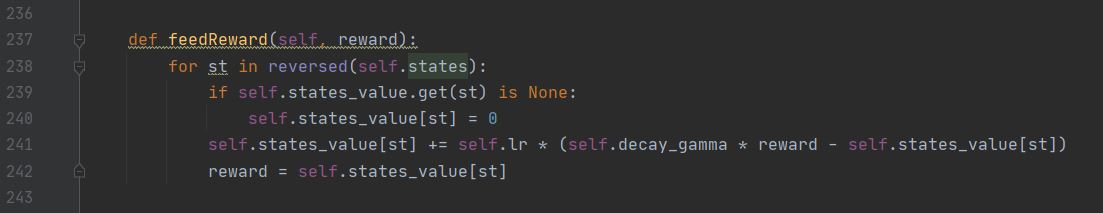
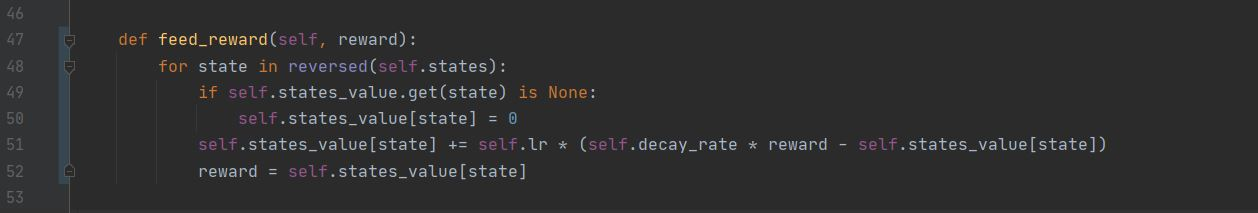
refractoring

diff --git a/game.py b/game.py
@@ -15,7 +15,7 @@ class Machine:
         self.isReset = False
 
     # get unique hash of current board state
-    def getHash(self):
+    def get_hash(self):
         self.boardHash = str(self.board.reshape(BOARD_COLS * BOARD_ROWS))
         return self.boardHash
 
@@ -52,14 +52,14 @@ class Machine:
                 return -1, 3, 0
 
         # tie - no available positions
-        if len(self.availablePositions()) == 0:
+        if len(self.available_positions()) == 0:
             self.isEnd = True
             return [0, 0, 0]
         # not end
         self.isEnd = False
         return [None, None, None]
 
-    def availablePositions(self):
+    def available_positions(self):
         positions = []
         for i in range(BOARD_ROWS):
             for j in range(BOARD_COLS):
@@ -67,48 +67,47 @@ class Machine:
                     positions.append((i, j))
         return positions
 
-    def updateState(self, position, symbol):
+    def update_state(self, position, symbol):
         self.board[position] = symbol
         self.show_move(position, symbol)
 
-    def giveReward(self):
+    def give_reward(self):
         result = self.winner()[0]
         # backpropagate reward
         if result == 1:
-            self.p1.feedReward(1)
-            self.p2.feedReward(0)
+            self.p1.feed_reward(1)
+            self.p2.feed_reward(0)
         elif result == -1:
-            self.p1.feedReward(0)
-            self.p2.feedReward(1)
+            self.p1.feed_reward(0)
+            self.p2.feed_reward(1)
         else:
-            self.p1.feedReward(0.5)
-            self.p2.feedReward(0.5)
+            self.p1.feed_reward(0.5)
+            self.p2.feed_reward(0.5)
 
     def reset(self):
         self.board = np.zeros((BOARD_ROWS, BOARD_COLS))
         self.boardHash = None
         self.isEnd = False
 
-
     def play(self, rounds=100):
         for i in range(rounds):
             while not self.isEnd:
                 # Player 1
-                positions = self.availablePositions()
-                p1_action = self.p1.chooseAction(positions, self.board, self.p1.symbol)
+                positions = self.available_positions()
+                p1_action = self.p1.make_move(positions, self.board)
 
                 # take action and update board state
                 self.board[p1_action] = self.p1.symbol
 
-                board_hash = self.getHash()
-                self.p1.addState(board_hash)
+                board_hash = self.get_hash()
+                self.p1.add_state(board_hash)
                 # check board status if it is end
 
                 win = self.winner()[0]
                 if win is not None:
                     # self.showBoard()
                     # ended with p1 either win or draw
-                    self.giveReward()
+                    self.give_reward()
                     self.p1.reset()
                     self.p2.reset()
                     self.update_score(win)
@@ -117,19 +116,19 @@ class Machine:
 
                 else:
                     # Player 2
-                    positions = self.availablePositions()
-                    p2_action = self.p2.chooseAction(positions, self.board, self.p2.symbol)
+                    positions = self.available_positions()
+                    p2_action = self.p2.make_move(positions, self.board)
 
                     self.board[p2_action] = self.p2.symbol
 
-                    board_hash = self.getHash()
-                    self.p2.addState(board_hash)
+                    board_hash = self.get_hash()
+                    self.p2.add_state(board_hash)
 
                     win = self.winner()[0]
                     if win is not None:
                         # self.showBoard()
                         # ended with p2 either win or draw
-                        self.giveReward()
+                        self.give_reward()
                         self.p1.reset()
                         self.p2.reset()
                         self.update_score(win)
@@ -144,18 +143,18 @@ class Machine:
                 return
 
             # Player 1 turn  - Computer
-            positions = self.availablePositions()
-            p1_action = self.p1.chooseAction(positions, self.board, self.p1.symbol)
-            self.updateState(p1_action, self.p1.symbol)
+            positions = self.available_positions()
+            p1_action = self.p1.make_move(positions, self.board)
+            self.update_state(p1_action, self.p1.symbol)
 
             if self.check_win():
                 break
             else:
                 # Player 2 turn - Human
-                positions = self.availablePositions()
-                p2_action = self.p2.chooseAction(positions)
+                positions = self.available_positions()
+                p2_action = self.p2.make_move(positions)
 
-                self.updateState(p2_action, self.p2.symbol)
+                self.update_state(p2_action, self.p2.symbol)
 
                 if self.check_win():
                     break
@@ -168,18 +167,18 @@ class Machine:
                 return
 
             # Player 1 turn
-            positions = self.availablePositions()
-            p1_action = self.p1.chooseAction(positions, self.board, self.p1.symbol)
-            self.updateState(p1_action, self.p1.symbol)
+            positions = self.available_positions()
+            p1_action = self.p1.make_move(positions, self.board)
+            self.update_state(p1_action, self.p1.symbol)
             time.sleep(0.5)  # wait half second before next move
 
             if self.check_win():
                 break
             else:
                 # Player 2 turn
-                positions = self.availablePositions()
-                p2_action = self.p2.chooseAction(positions, self.board, self.p2.symbol)
-                self.updateState(p2_action, self.p2.symbol)
+                positions = self.available_positions()
+                p2_action = self.p2.make_move(positions, self.board)
+                self.update_state(p2_action, self.p2.symbol)
                 time.sleep(0.5)
 
                 if self.check_win():
@@ -193,18 +192,18 @@ class Machine:
                 return
 
             # Player 1 turn - Human
-            positions = self.availablePositions()
-            p2_action = self.p2.chooseAction(positions)
-            self.updateState(p2_action, self.p2.symbol)
+            positions = self.available_positions()
+            p2_action = self.p2.make_move(positions)
+            self.update_state(p2_action, self.p2.symbol)
 
             if self.check_win():
                 break
             else:
                 # Player 2 turn - Computer
-                positions = self.availablePositions()
-                p1_action = self.p1.chooseAction(positions, self.board, self.p1.symbol)
+                positions = self.available_positions()
+                p1_action = self.p1.make_move(positions, self.board)
 
-                self.updateState(p1_action, self.p1.symbol)
+                self.update_state(p1_action, self.p1.symbol)
 
                 if self.check_win():
                     break

diff --git a/player.py b/player.py
@@ -11,53 +11,55 @@ class Player:
         self.states = []  # record all positions taken
         self.lr = 0.1
         self.exp_rate = exp_rate
-        self.decay_gamma = 0.9
+        self.decay_rate = 0.9
         self.states_value = {}  # state -> value
 
-    def getHash(self, board):
+    def get_hash(self, board):
         boardHash = str(board.reshape(BOARD_COLS * BOARD_ROWS))
         return boardHash
 
-    def chooseAction(self, positions, current_board, symbol):
-        """Make a decision"""
+    def make_move(self, positions, current_board):
         if np.random.random() <= self.exp_rate:
             # make a random decision
             idx = np.random.choice(len(positions))
             action = positions[idx]
         else:
+            # calculate the best move
             value_max = -100
             for p in positions:
                 # check all available moves
                 next_board = current_board.copy()
-                next_board[p] = symbol
-                next_boardHash = self.getHash(next_board)
-                value = 0 if self.states_value.get(next_boardHash) is None else self.states_value.get(next_boardHash)
+                next_board[p] = self.symbol
+                next_board_hash = self.get_hash(next_board)
 
+                temp = self.states_value.get(next_board_hash)
+                value = 0
+                if temp is not None: value = temp
                 if value >= value_max:
                     value_max = value
                     action = p
         return action
 
     # append a hash state
-    def addState(self, state):
+    def add_state(self, state):
         self.states.append(state)
 
-    def feedReward(self, reward):
-        for st in reversed(self.states):
-            if self.states_value.get(st) is None:
-                self.states_value[st] = 0
-            self.states_value[st] += self.lr * (self.decay_gamma * reward - self.states_value[st])
-            reward = self.states_value[st]
+    def feed_reward(self, reward):
+        for state in reversed(self.states):
+            if self.states_value.get(state) is None:
+                self.states_value[state] = 0
+            self.states_value[state] += self.lr * (self.decay_rate * reward - self.states_value[state])
+            reward = self.states_value[state]
 
     def reset(self):
         self.states = []
 
-    def savePolicy(self):
+    def save_policy(self):
         fw = open('policy/policy_' + str(self.name), 'wb')
         pickle.dump(self.states_value, fw)
         fw.close()
 
-    def loadPolicy(self, file):
+    def load_policy(self, file):
         fr = open(file, 'rb')
         self.states_value = pickle.load(fr)
         fr.close()
@@ -71,7 +73,7 @@ class HumanPlayer:
         self.ready = False
         self.action = None
 
-    def chooseAction(self, positions):
+    def make_move(self, positions):
         while True:
             if self.ready:
                 if self.action in positions:

diff --git a/presenter.py b/presenter.py
@@ -13,7 +13,7 @@ class Presenter:
         self.isTraining = False
         self.player2 = HumanPlayer("p2", -1)
         self.player1 = Player("pl", 1)
-        self.player1.loadPolicy(const.POLICY1)
+        self.player1.load_policy(const.POLICY1)
         self.machine = None
         self.game_type = ""
         self.disabled_action = True  # disable ability to click on board
@@ -54,7 +54,7 @@ class Presenter:
         self.disabled_action = True
         self.change_to_cross(None)
         self.player2 = Player("p2", -1)
-        self.player2.loadPolicy(const.POLICY2)  # load second computer player
+        self.player2.load_policy(const.POLICY2)  # load second computer player
 
         self.clean_board()
         if self.t is not None and self.t.stopped() is False:
@@ -88,8 +88,8 @@ class Presenter:
     def start_training(self):
         self.isTraining = True
         self.machine.play(5000)
-        self.player1.savePolicy()
-        self.player2.savePolicy()
+        self.player1.save_policy()
+        self.player2.save_policy()
         self.new_game()
         self.isTraining = False
 
@@ -176,7 +176,7 @@ class Presenter:
         self.mode = 1
         self.player2.symbol = 1  # change human player's letter to circle
         self.player1.symbol = -1
-        self.player1.loadPolicy(const.POLICY2)
+        self.player1.load_policy(const.POLICY2)
         self.view.statusbar.showMessage("You play circle")
 
     def change_to_cross(self, event):
@@ -187,7 +187,7 @@ class Presenter:
         self.player2.symbol = -1
         self.player1.symbol = 1
 
-        self.player1.loadPolicy(const.POLICY1)
+        self.player1.load_policy(const.POLICY1)
         self.view.statusbar.showMessage("You play cross")
 
     def exit(self):
